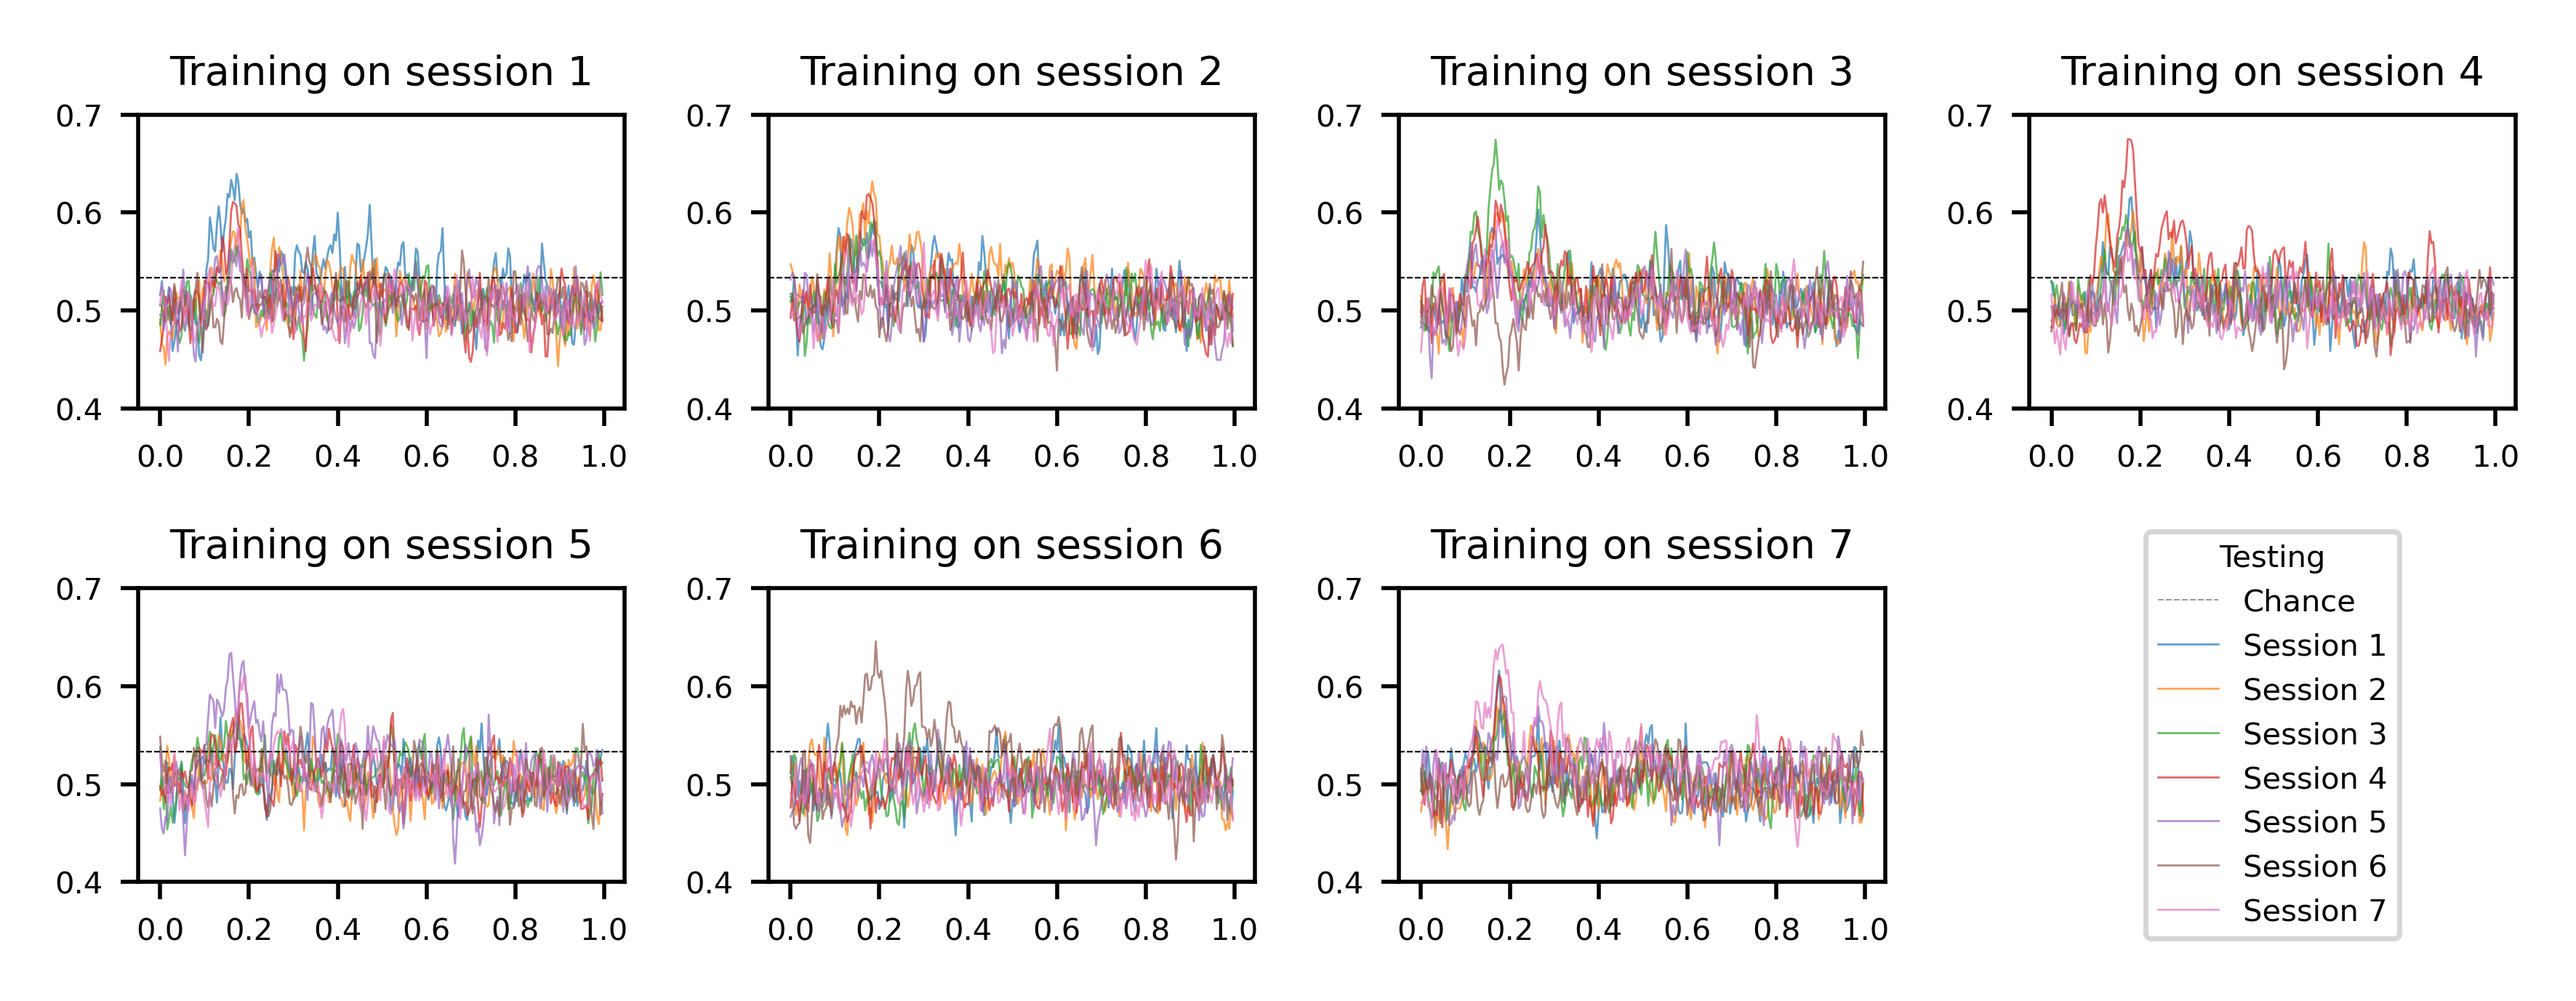
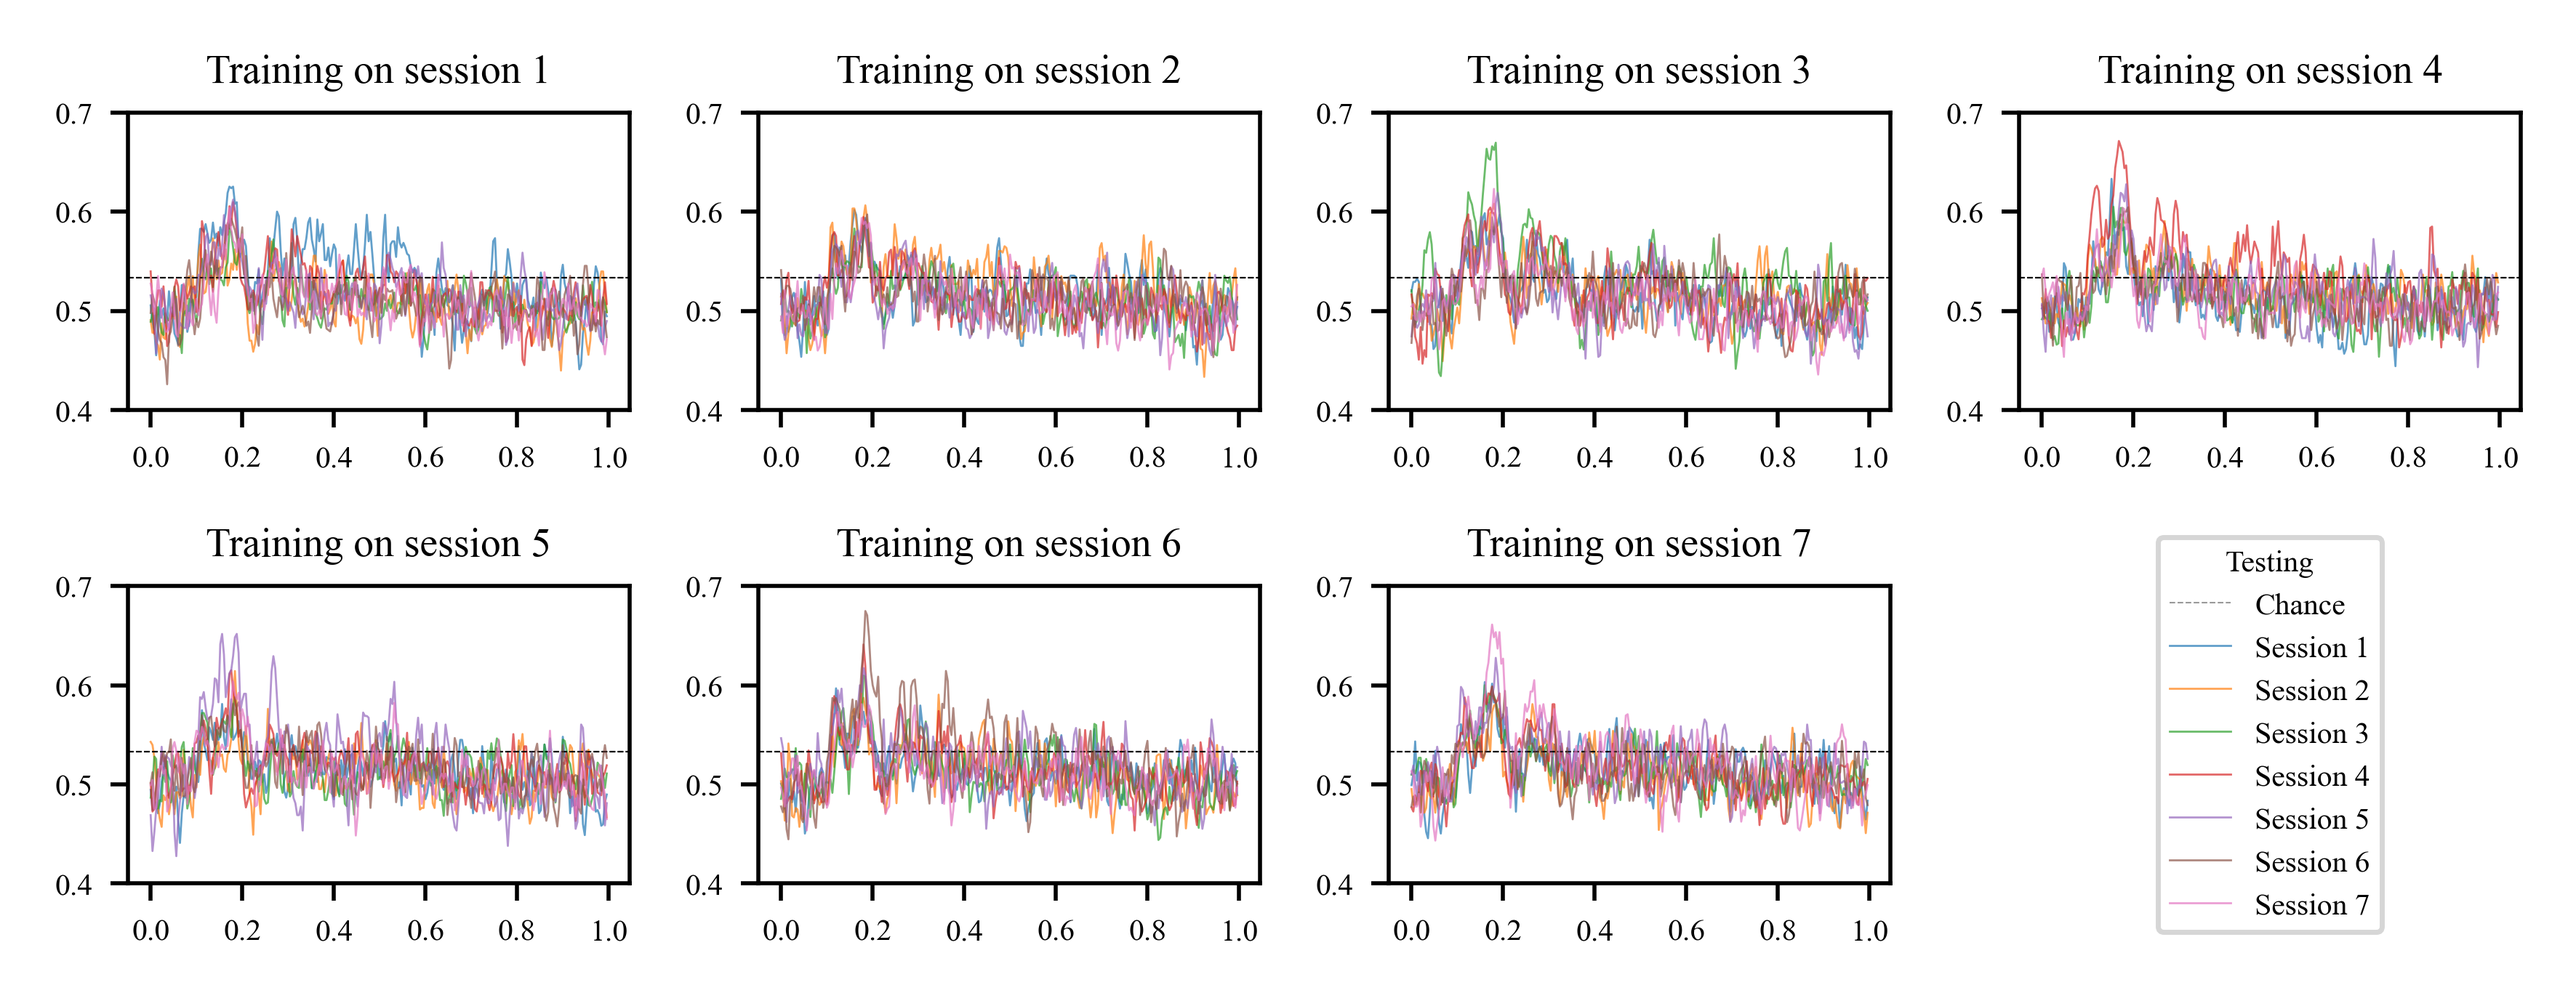
update decoding scripts

Changed region(s): [[0.031, 0.0625, 0.9935, 0.4684], [0.031, 0.5309, 0.7451, 0.9368], [0.8072, 0.5309, 0.9314, 0.968]]

diff --git a/decoding/decoding_plots.py b/decoding/decoding_plots.py
@@ -1,6 +1,26 @@
 import matplotlib.pyplot as plt
 import numpy as np
+from scipy.stats import binom
+from decoding_source import prep_data
 
+# set font for all plots
+plt.rcParams['font.family'] = 'times new roman'
+plt.rcParams['image.cmap'] = 'RdBu_r' # note: delete everywhere else
+
+def chance_level():
+    Xbin, ybin, Xsesh, ysesh = prep_data()
+    del Xbin, ybin, ysesh
+    Xsesh = [np.concatenate(i, axis = 2) for i in Xsesh]
+    Xsesh = [np.transpose(i.squeeze(), (0,1,2)) for i in Xsesh]
+    
+    n_trials = [i.shape[1] for i in Xsesh]
+    chance_level = []
+    for i in range(len(n_trials)):
+        n, p= n_trials[i], 0.5
+        # get the chance level at alpha = 0.05
+        k = binom.ppf(0.95, n, p)
+        chance_level.append(k/n)
+    return chance_level
 
 def plot_tgm_diagonal(lbo, prop, savepath = None):
     """
@@ -35,19 +55,12 @@ def plot_tgm_diagonal(lbo, prop, savepath = None):
         ax[i, 1].plot(avg_lbo.diagonal(), color = 'k', linewidth = 0.5)
         ax[i, 3].plot(avg_prop.diagonal(), color = 'k', linewidth = 0.5)
 
-        # plot the 95 % confidence interval for the lbo session
-        #ax[i, 1].fill_between(range(len(session_lbo[0])), avg_lbo.diagonal() - 1.96*np.std(avg_lbo, axis = 0)/np.sqrt(len(lbo[i])), avg_lbo.diagonal() + 1.96*np.std(avg_lbo, axis = 0)/np.sqrt(len(lbo[i])), color = 'k', alpha = 0.2)
-        #ax[i, 1].axhline(0.5, color = 'k', linestyle = '--', linewidth = 0.5)
-
-        # plot the 95 % confidence interval for the prop session
-        #ax[i, 3].fill_between(range(len(session_prop[0])), avg_prop.diagonal() - 1.96*np.std(avg_prop, axis = 0)/np.sqrt(len(prop[i])), avg_prop.diagonal() + 1.96*np.std(avg_prop, axis = 0)/np.sqrt(len(prop[i])), color = 'k', alpha = 0.4)
-        #ax[i, 3].axhline(0.5, color = 'k', linestyle = '--', linewidth = 0.5)
 
     ax[1, 0].set_xticks(np.arange(0, 251, step=50), [0. , 0.2, 0.4, 0.6, 0.8, 1. ])
     ax[1, 0].set_xlim(0, 250)
 
     ax[0, 0].set_title('Temporal Generalization')
-    ax[0, 0].set_title('Leave Batch Out')
+    ax[0, 0].set_title('Leave Block Out')
     ax[0, 2].set_title('Proportional Batch')
     #ax[0, 1].legend(loc = 'upper right')
     ax[0, 1].set_ylim(0.3, 0.8)
@@ -187,7 +200,11 @@ def diagonal_cross(cross, savepath = None):
     for i, a in enumerate(ax.flatten()):
         if i < 7:
             for j in range(cross.shape[1]):
-                a.plot(cross[i, j].diagonal(), linewidth = 0.4, alpha = 0.7, label = f'{j+1}')
+                if j == 0 and i == 0:
+                    a.axhline(y = 0.5333333333333333, color = 'k', linewidth = 0.3, linestyle = '--', alpha = 0.4, label = 'Chance')
+                else:
+                    a.axhline(y = 0.5333333333333333, color = 'k', linewidth = 0.3, linestyle = '--', alpha = 0.4)
+                a.plot(cross[i, j].diagonal(), linewidth = 0.4, alpha = 0.7, label = f'Session {j+1}')
                 a.set_title(f'Training on session {i+1}', fontsize = 8)
                 a.set_xticks(np.arange(0, 251, step=50), [0. , 0.2, 0.4, 0.6, 0.8, 1. ], fontsize = 6)
                 a.set_ylim(vmin, vmax)
@@ -198,30 +215,52 @@ def diagonal_cross(cross, savepath = None):
     # get the legend labels from the first axis and plot them on the last axis
     handles, labels = ax[0, 0].get_legend_handles_labels()
     ax[-1, -1].axis('off')
-    ax[-1, -1].legend(handles, labels, loc = 'center', title = 'Testing on \n session', title_fontsize = 6, fontsize = 6)
+    ax[-1, -1].legend(handles, labels, loc = 'center', title = 'Testing', title_fontsize = 6, fontsize = 6)
     #ax[-1, -1].legend(loc = 'upper right', title = 'Testing on \n session', title_fontsize = 6, fontsize = 6)
 
     plt.tight_layout()
 
     if savepath is not None:
         plt.savefig(savepath)
+
+def plot_tgm_difference(a1, a2, savepath = None):
+    vmin = -5
+    vmax = 5
+
+    if a1.shape and a2.shape != (7, 7, 250, 250):
+        raise ValueError('Input arrays must be of shape (7, 7, 250, 250)')
     
+    mean_a1 = np.mean(a1, axis = (0, 1))
+    mean_a2 = np.mean(a2, axis = (0, 1))
+
+    fig, axs = plt.subplots(1, 1, figsize = (7, 7), dpi = 300)
+
+    axs.imshow(mean_a1 - mean_a2, vmin = vmin, vmax = vmax, cmap = 'RdBu_r', origin = 'lower')
+    # show the colorbar on the right
+    plt.colorbar()
+    # add title over the colorbar
+    plt.title('Difference in decoding accuracy', fontsize = 16)
+
+
+    if savepath is not None:
+        plt.savefig(savepath)
+
+
     
 
 if __name__ in '__main__':
     lbo = np.load('./accuracies/accuracies_LDA_lbo.npy', allow_pickle=True) # leave batch out
     propb = np.load('./accuracies/accuracies_LDA_prop.npy', allow_pickle=True) # proportional batch
-    lso = np.load('./accuracies/accuracies_LDA_lso.npy', allow_pickle=True) # leave session out
-    props = np.load('./accuracies/accuracies_LDA_props.npy', allow_pickle=True).squeeze() # proportional session
-
     cross = np.load('./accuracies/cross_decoding_ncv_5.npy', allow_pickle=True).squeeze() # cross session
-    
+    #cross_sens = np.load('./accuracies/cross_decoding_sens_ncv_5.npy', allow_pickle=True).squeeze() # cross session
 
     plot_tgm_diagonal(lbo, propb,  savepath = f'./plots/tgm_diagonal_within_session.png')
     plot_diagonal(lbo, propb, savepath = f'./plots/diagonal_within_session.png')
 
-    plot_tgm_sesh(lso, props, savepath = f'./plots/tgm_between_session.png')
-    plot_diagonal_sesh(lso, props, savepath = f'./plots/diagonal_between_session.png')
-
     tgm_cross(cross, savepath = f'./plots/cross_session_tgm.png')
+    #tgm_cross(cross_sens, savepath = f'./plots/cross_session_tgm_sens.png')
+    
     diagonal_cross(cross, savepath = f'./plots/cross_session_diagonal.png')
+    #diagonal_cross(cross_sens, savepath = f'./plots/cross_session_diagonal_sens.png')
+
+    #plot_tgm_difference(cross, cross_sens, savepath = f'./plots/cross_session_tgm_difference.png')

diff --git a/decoding/decoding.py b/decoding/decoding.py
@@ -15,19 +15,18 @@ get_tgm = True
 def load_data(sens = False):
     if not sens:
         Xbin_load  = np.load(f'../subset_data/data/xbin.npz', allow_pickle=True)
-        ybin_load = np.load(f'../subset_data/data/ybin.npy', allow_pickle=True)
-        sessioninds_load = np.load(f'../subset_data/data/ybin_seshinds.npy', allow_pickle=True)
     else:
         Xbin_load  = np.load(f'../subset_data/data/xbin_sens.npz', allow_pickle=True)
-        ybin_load = np.load(f'../subset_data/data/ybin_sens.npy', allow_pickle=True)
-        sessioninds_load = np.load(f'../subset_data/data/ybin_seshinds_sens.npy', allow_pickle=True)
+
+    ybin_load = np.load(f'../subset_data/data/ybin.npy', allow_pickle=True)
+    sessioninds_load = np.load(f'../subset_data/data/seshinds_bins.npy', allow_pickle=True)
 
     # unpack the loaded data
     Xbin = [Xbin_load[f'arr_{i}']for i in range(7)]
     ybin = [ybin_load[i]for i in range(ybin_load.shape[0])]
     sessioninds = [np.array(sessioninds_load[i])for i in range(7)]
-    if not sens:
-        Xbin = [X.transpose(1, 2, 0) for X in Xbin]
+    #if not sens:
+        #Xbin = [X.transpose(1, 2, 0) for X in Xbin]
 
     return Xbin, ybin, sessioninds
 
@@ -127,6 +126,7 @@ def run_proportional_batch(Xsesh, ysesh, decoder):
 
 if __name__ in '__main__':
     Xbin, ybin, Xsesh, ysesh = prep_data()
+    del Xbin, ybin
     
     decoder = decoder.Decoder(classification=classification, ncv = ncv, alpha = alpha, scale = True, model_type = model_type, get_tgm=get_tgm)
 

diff --git a/decoding/cross_decoding.py b/decoding/cross_decoding.py
@@ -16,7 +16,7 @@ import argparse as ap
 
 classification = True
 ncv = 5
-ncores = 15 #mp.cpu_count()
+ncores = 10 #mp.cpu_count()
 alpha = 'auto'
 model_type = 'LDA' # can be either LDA, SVM or RidgeClassifier
 now = datetime.now()
@@ -66,14 +66,12 @@ if __name__ == '__main__':
     Xsesh = [np.transpose(i.squeeze(), (0,1,2)) for i in Xsesh]
     ysesh = [np.concatenate(i, axis = 0) for i in ysesh]
 
-    print(Xsesh[0].shape)
-
     for i in range(len(Xsesh)):
         print(Xsesh[i].shape, ysesh[i].shape)
 
-    decoding_inputs = [(train_sesh, test_sesh, idx) for idx, train_sesh in enumerate(range(7)) for test_sesh in range(7)]
+    decoding_inputs = [(train_sesh, test_sesh, idx) for idx, train_sesh in enumerate(range(len(Xsesh))) for test_sesh in range(len(Xsesh))]
     
-    accuracies = np.zeros((7, 7, 250, 250), dtype=float)
+    accuracies = np.zeros((len(Xsesh), len(Xsesh), 250, 250), dtype=float)
     with mp.Pool(ncores) as p:
         for train_session, test_session, accuracy in p.map(get_accuracy, decoding_inputs):
             accuracies[train_session, test_session, :, :] = accuracy
